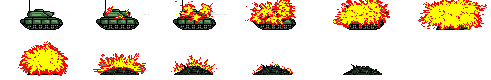
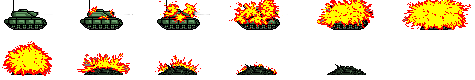
death animation komið en er skakkt

diff --git a/Tanks/TANKS.js b/Tanks/TANKS.js
@@ -146,7 +146,7 @@ function requestPreloads() {
         rightDoor : "../myndir/doorRight.png",
         tankgun : "../myndir/guns/green.png",
         explosion : "../myndir/explosives/explosionsheet.png",
-        tankDeath : "../myndir/tankexplode/tankexplodesheet.png"
+        tankDeath : "../myndir/tankexplode/tankDeath.png"
 
     };
 
@@ -166,8 +166,8 @@ function preloadDone() {
     g_sprites.cloud2 = new Sprite(g_images.cloud2);
     g_sprites.cloud3 = new Sprite(g_images.cloud3);
 
-    g_sprites.xplode = spriteUtil.decomposeSheet(100,100,10,10,74, g_images.explosion);
-    g_sprites.tankDeath = spriteUtil.decomposeSheet(82,40,6,2,11, g_images.tankDeath);
+    g_sprites.xplode = spriteUtil.decomposeSheet(100,100,10,10,81, g_images.explosion);
+    g_sprites.tankDeath = spriteUtil.decomposeSheet(81,40,7,3,12, g_images.tankDeath);
     //7/console.log(g_sprites.tankDeath);
 
 //    console.log(g_images);

diff --git a/Tanks/Death.js b/Tanks/Death.js
@@ -9,13 +9,13 @@ function Death(descr) {
 
 }
 
-var delay = 50
+var delay = 10
 Death.prototype = new Entity();
 
 Death.prototype.render = function(ctx) {
   //  console.log(this.sprite);
     var cell = this.sprite[this.index];
-  //  console.log(cell);
+  console.log(this.radius);
     cell.drawClippedCentredAt(
         ctx, this.cx, this.cy, this.rotation, this.radius, this.radius);
 }

diff --git a/Tanks/Ship.js b/Tanks/Ship.js
@@ -69,11 +69,12 @@ Ship.prototype.offsetY = 0;
 
 //hitpoints
 Ship.prototype.health = 1;
-//becomes true when hit, so the explosion doenst hit multiple times
+
+//becomes true when hit, so the explosion doesnt hit multiple times
+//færa í bullet ?
 Ship.prototype.isHit = false;
 
 Ship.prototype.update = function(du) {
-
 
   if (this._isDeadNow === true) {
 

diff --git a/Tanks/Explosion.js b/Tanks/Explosion.js
@@ -13,10 +13,10 @@ Explosion.prototype = new Entity();
 
 Explosion.prototype.render = function(ctx) {
     var cell = this.sprite[this.index];
-
+    console.log(this.radius);
     cell.drawClippedCentredAt(
         ctx, this.cx + 500, this.cy + 500, this.rotation, this.radius, this.radius);
-    
+
 }
 
 Explosion.prototype.update = function(du) {

diff --git a/Tanks/Sprite.js b/Tanks/Sprite.js
@@ -54,7 +54,7 @@ Sprite.prototype.drawCentredAt = function (ctx, cx, cy, rotation) {
 
 Sprite.prototype.drawClippedCentredAt = function (
     ctx, cx, cy, rotation, w = this.width, h = this.height) {
-
+      console.log(w + " " + h);
     if (rotation === undefined) rotation = 0;
 
     ctx.save();

diff --git a/Tanks/spriteUtil.js b/Tanks/spriteUtil.js
@@ -15,8 +15,11 @@ var spriteUtil = {
                 }
             }
         }
+        console.log(arr.length);
+        console.log(arr);
         return arr;
     },
+
 
     pushImgUrl : function(url, length) {
         var arr = [];
